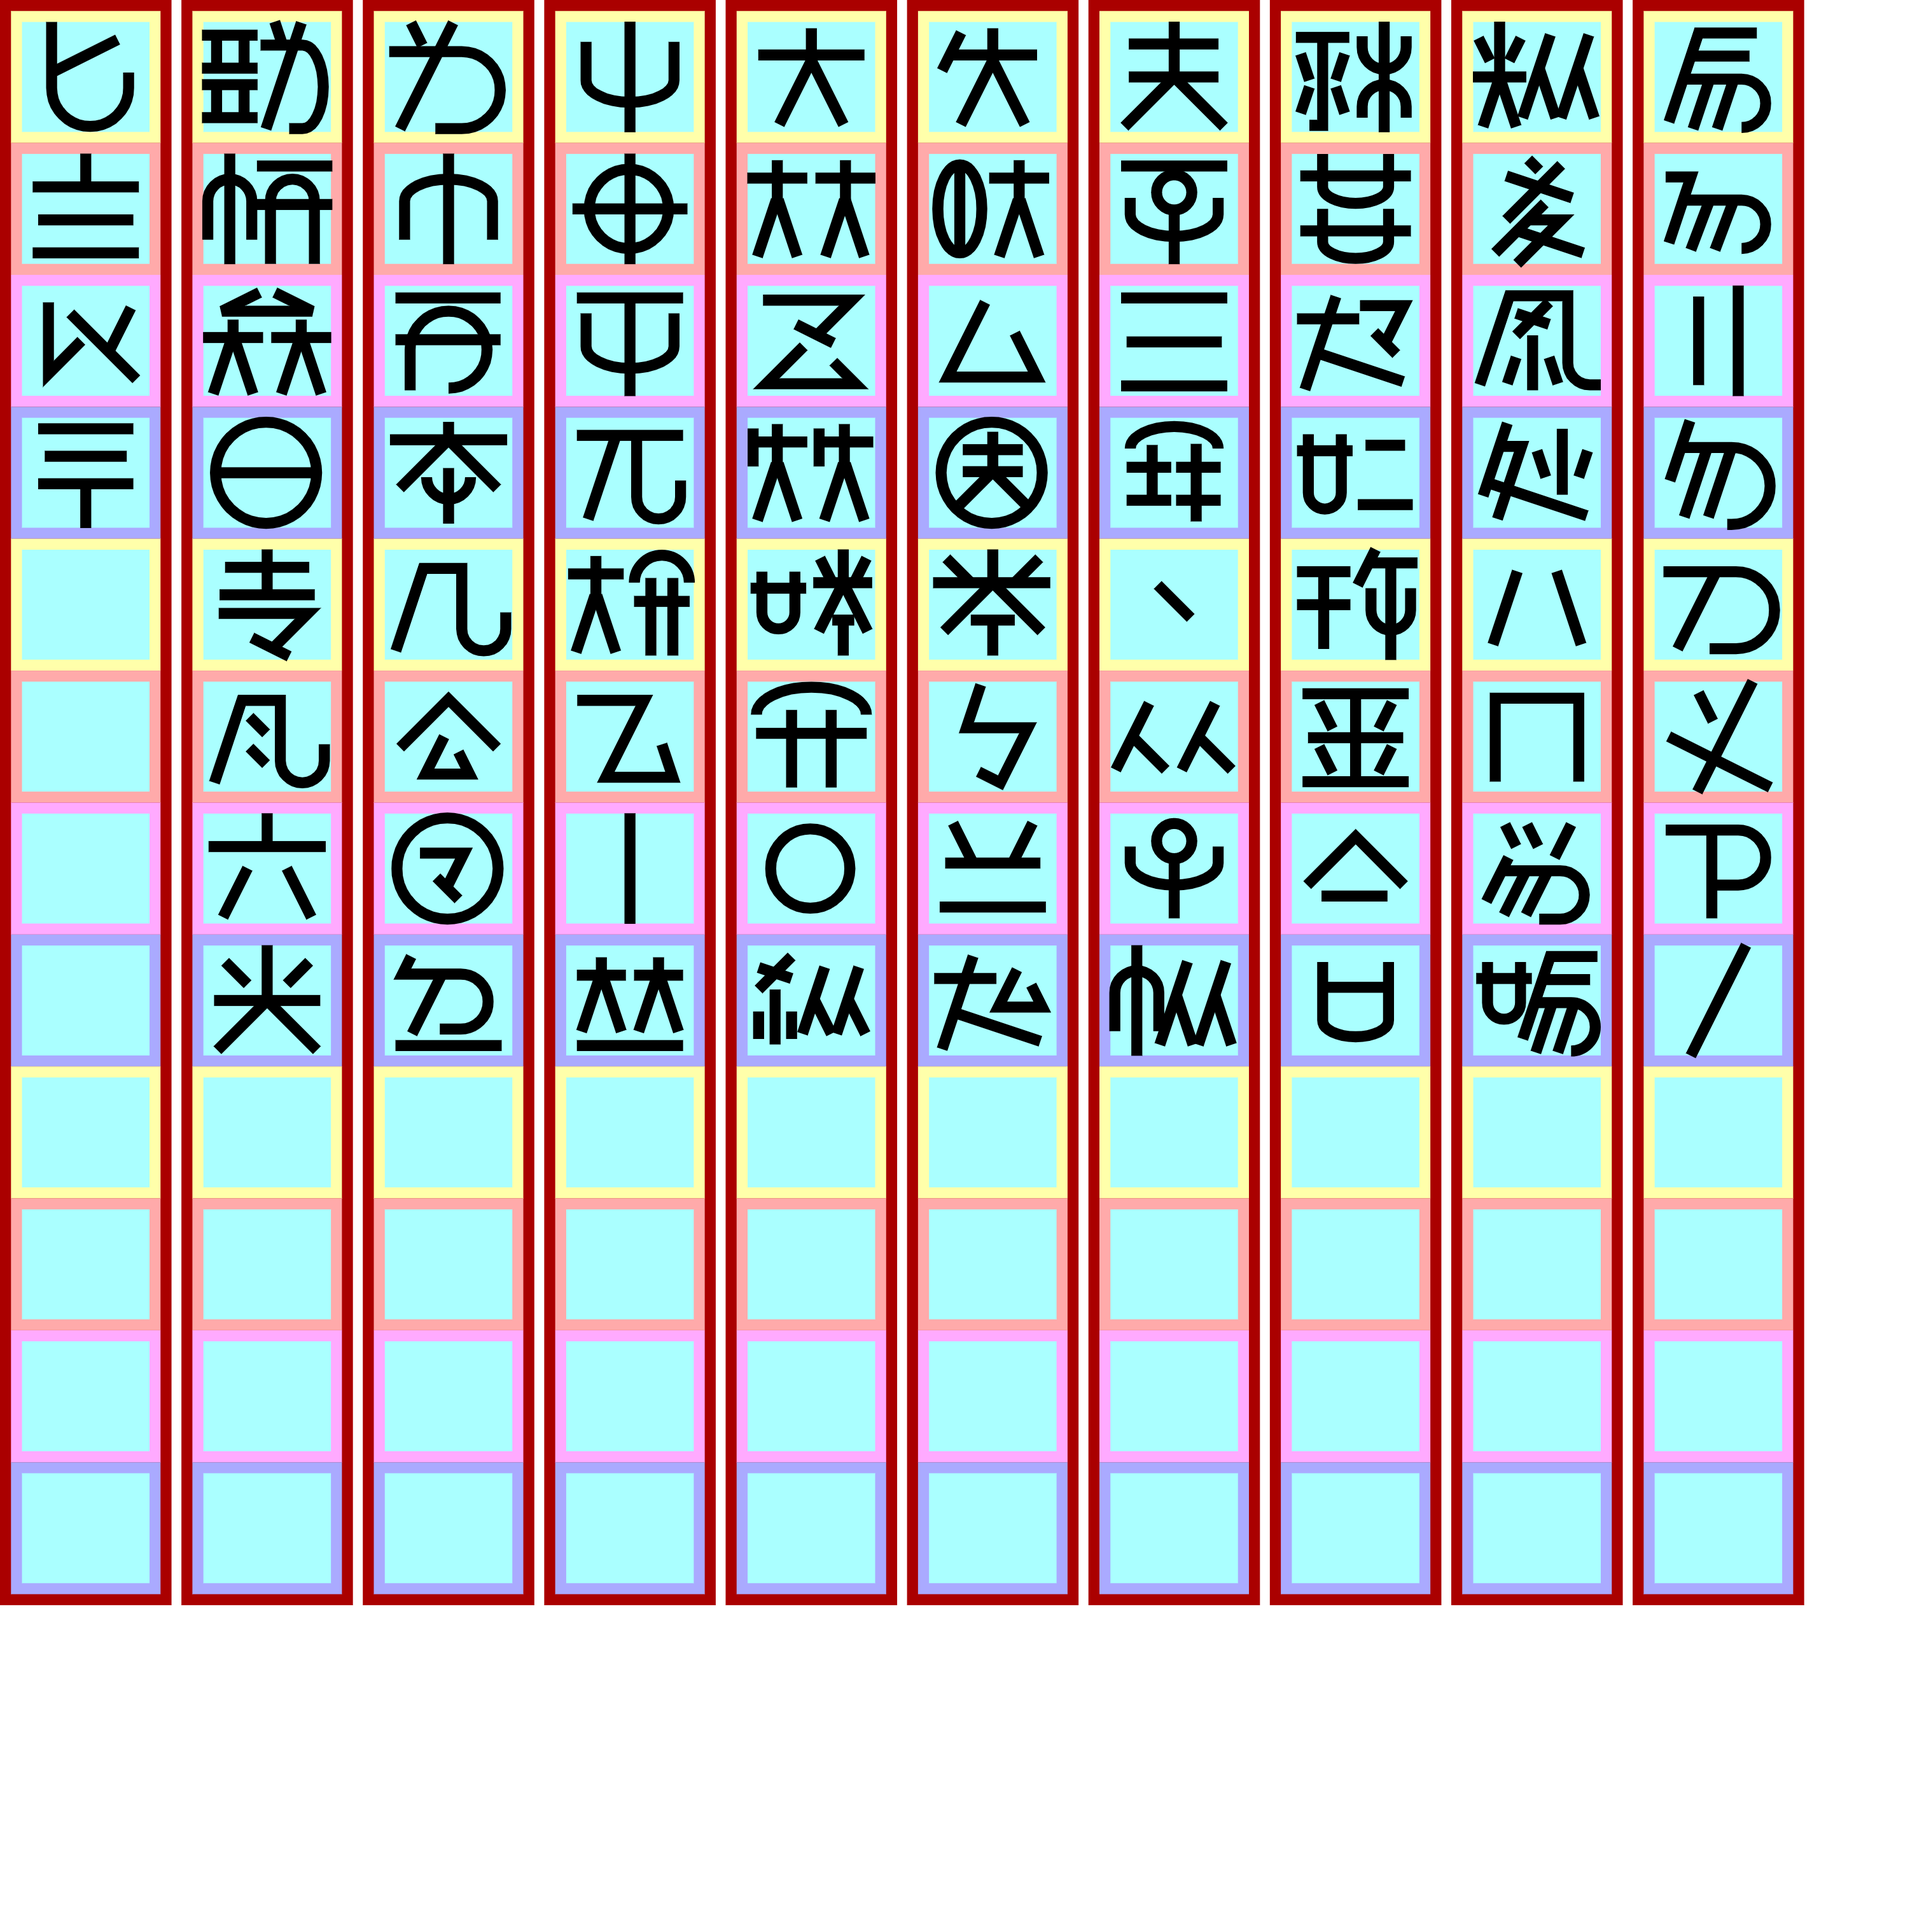
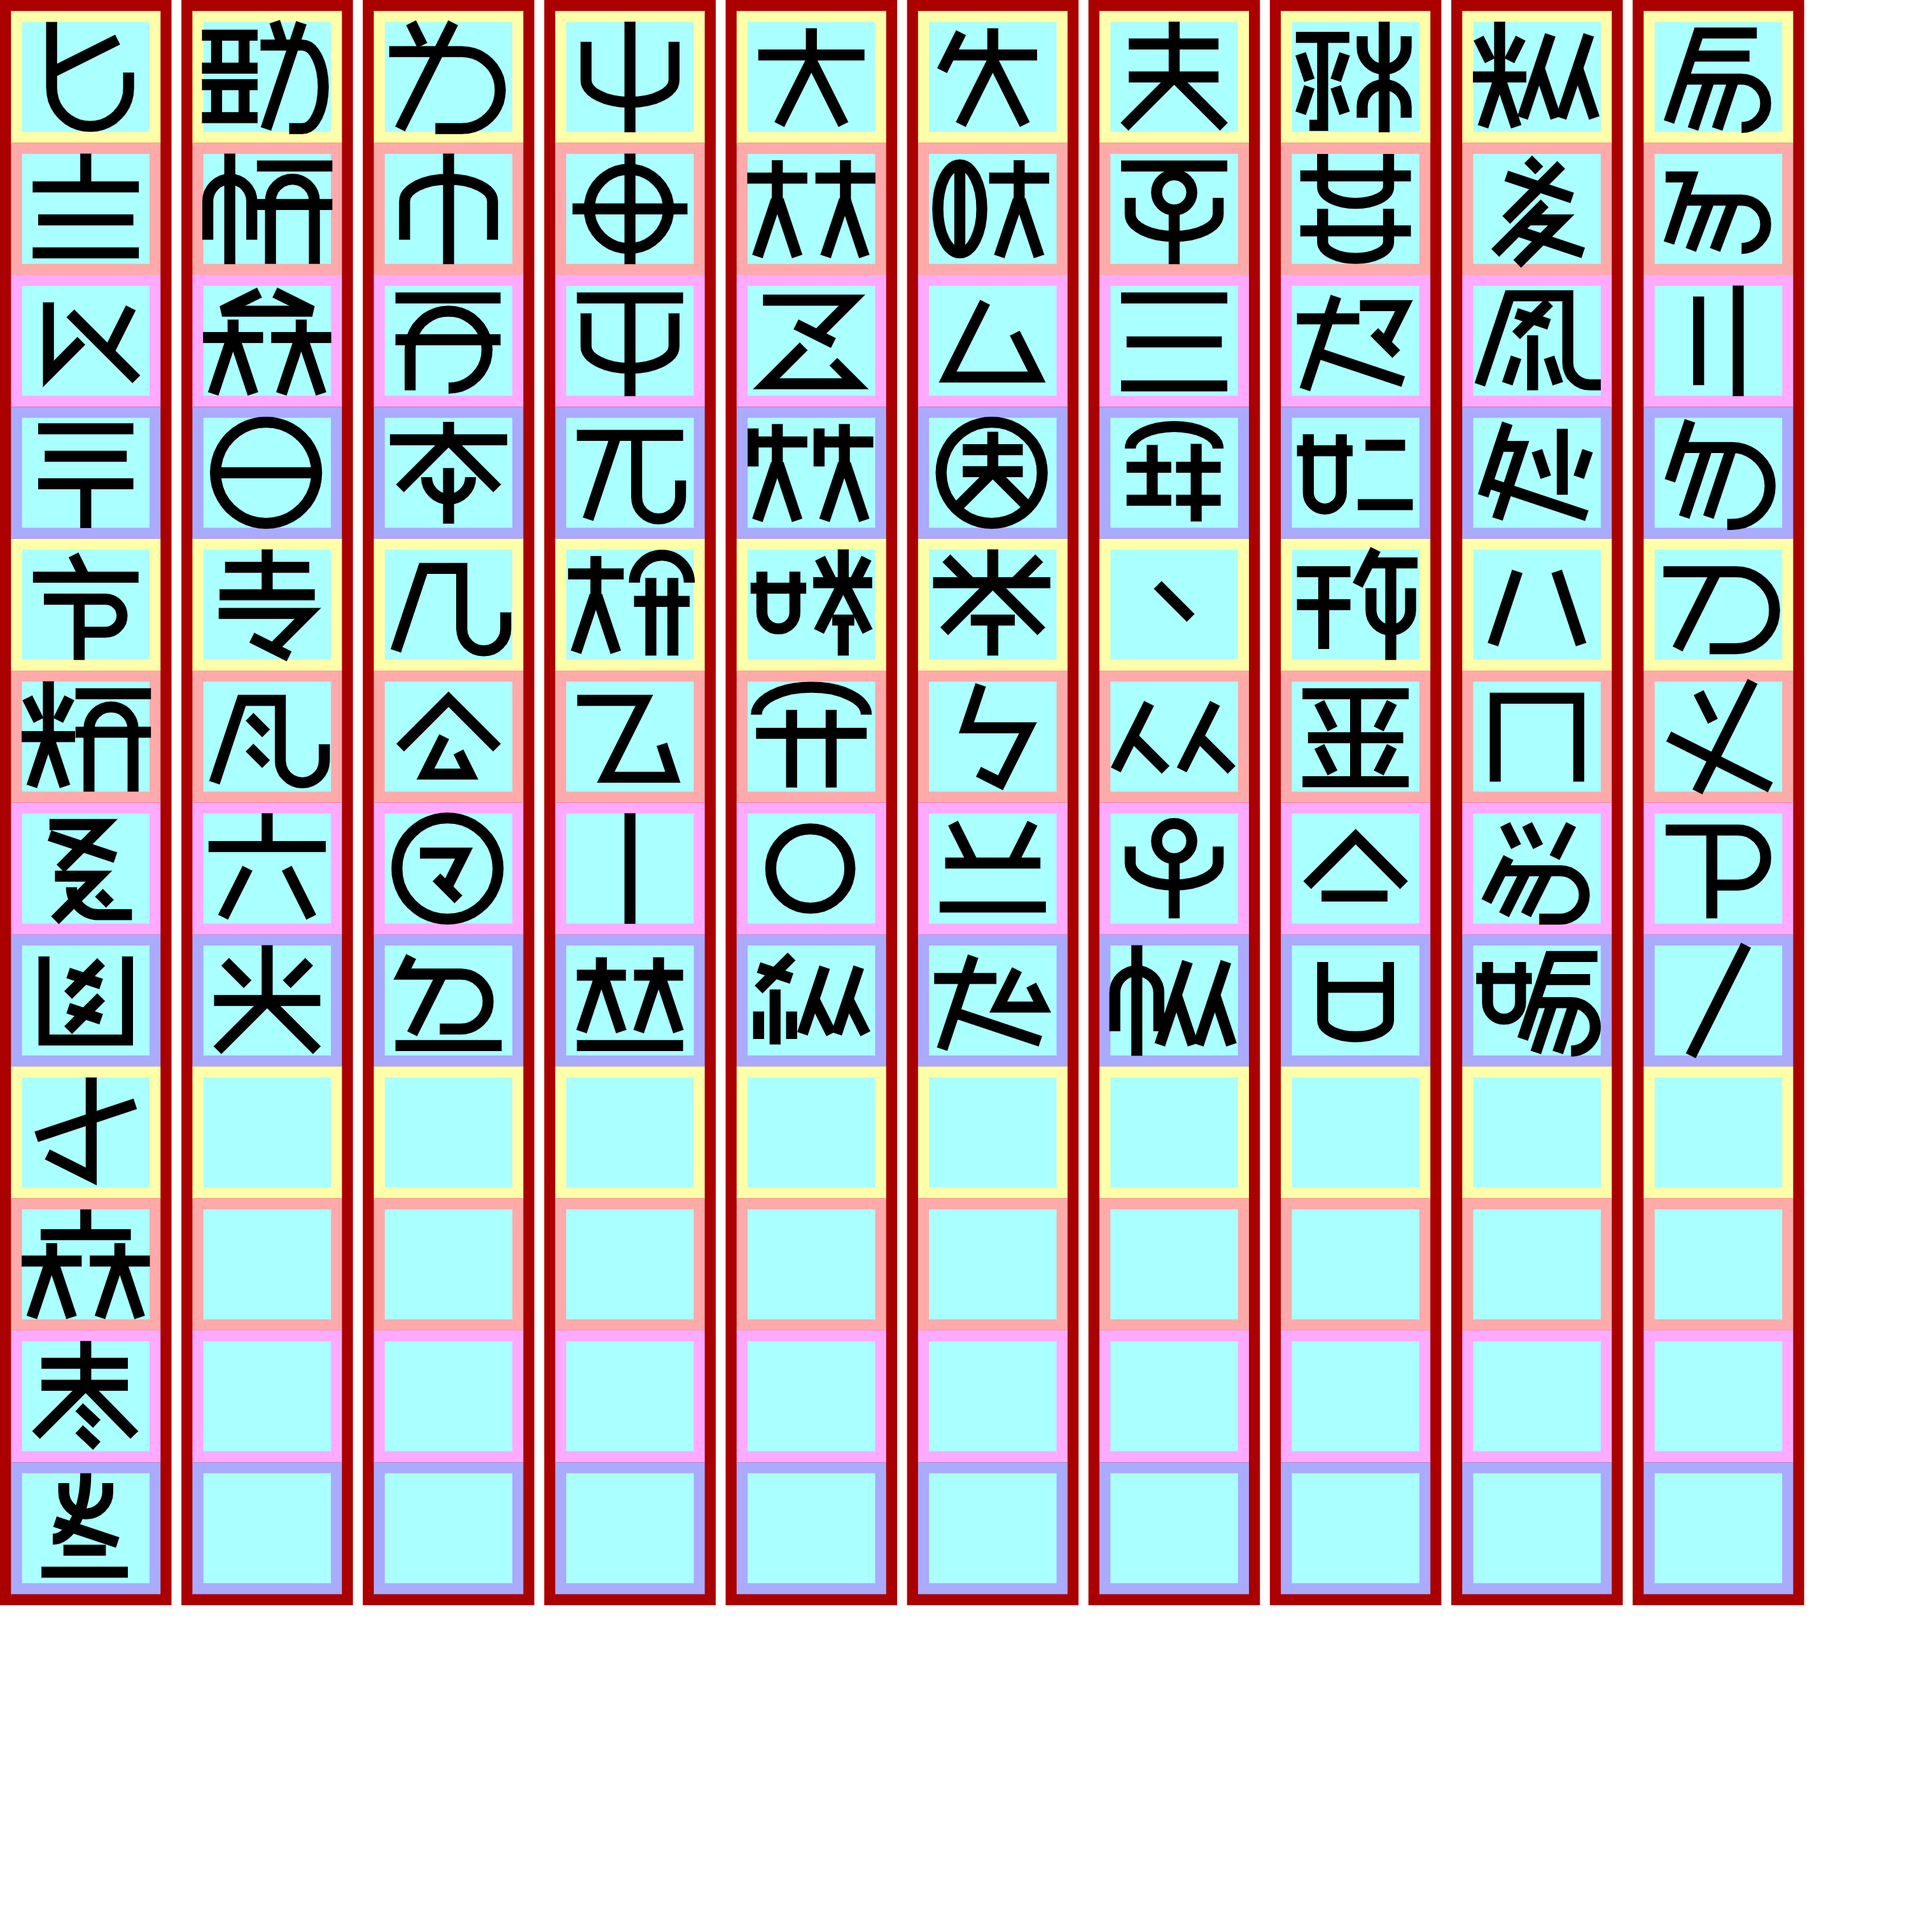
【清識字混而官民迷】

Changed region(s): [[0.0, 0.2798, 0.0933, 0.8393]]

diff --git a/README.md b/README.md
@@ -20,6 +20,7 @@
  * 傾き±1
  * 四分の三円
  * 四分円
+ * 四分楕円（横1:縦2）
 
 だけを使用
 
